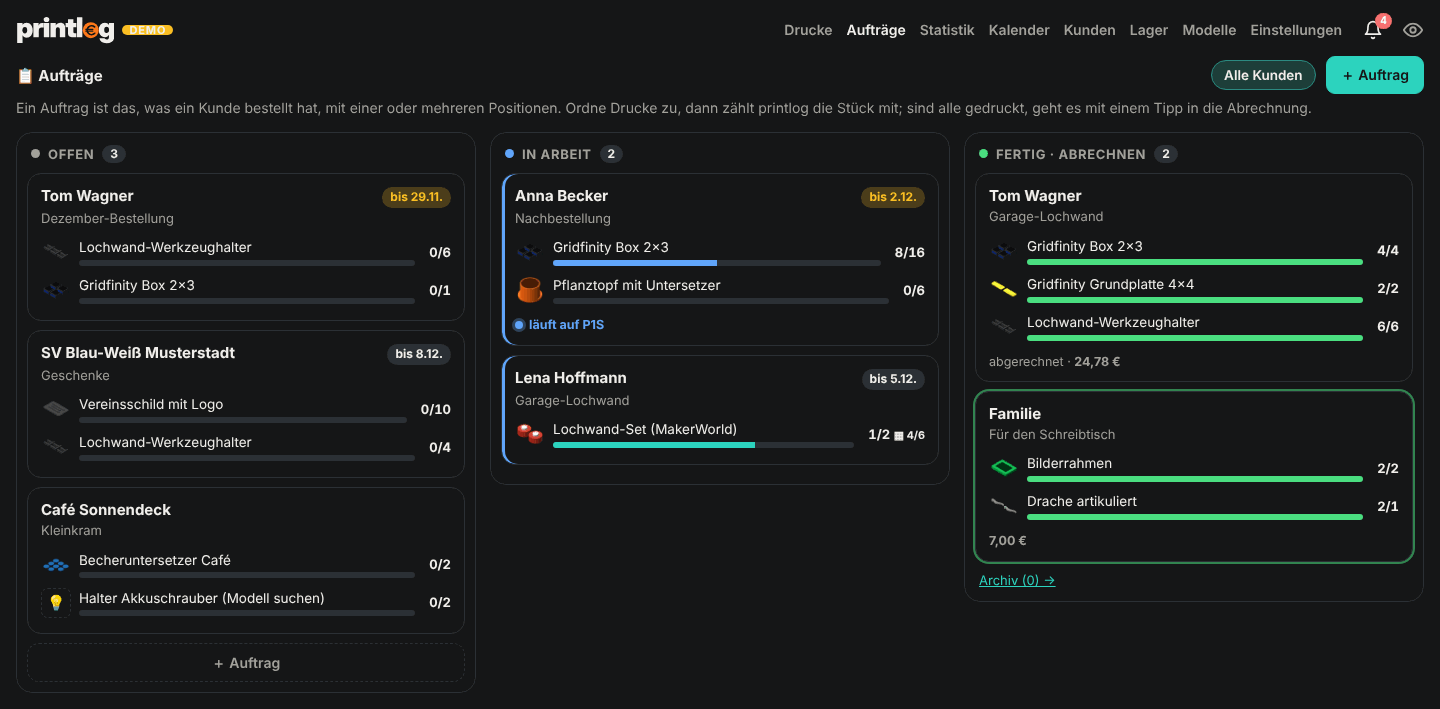
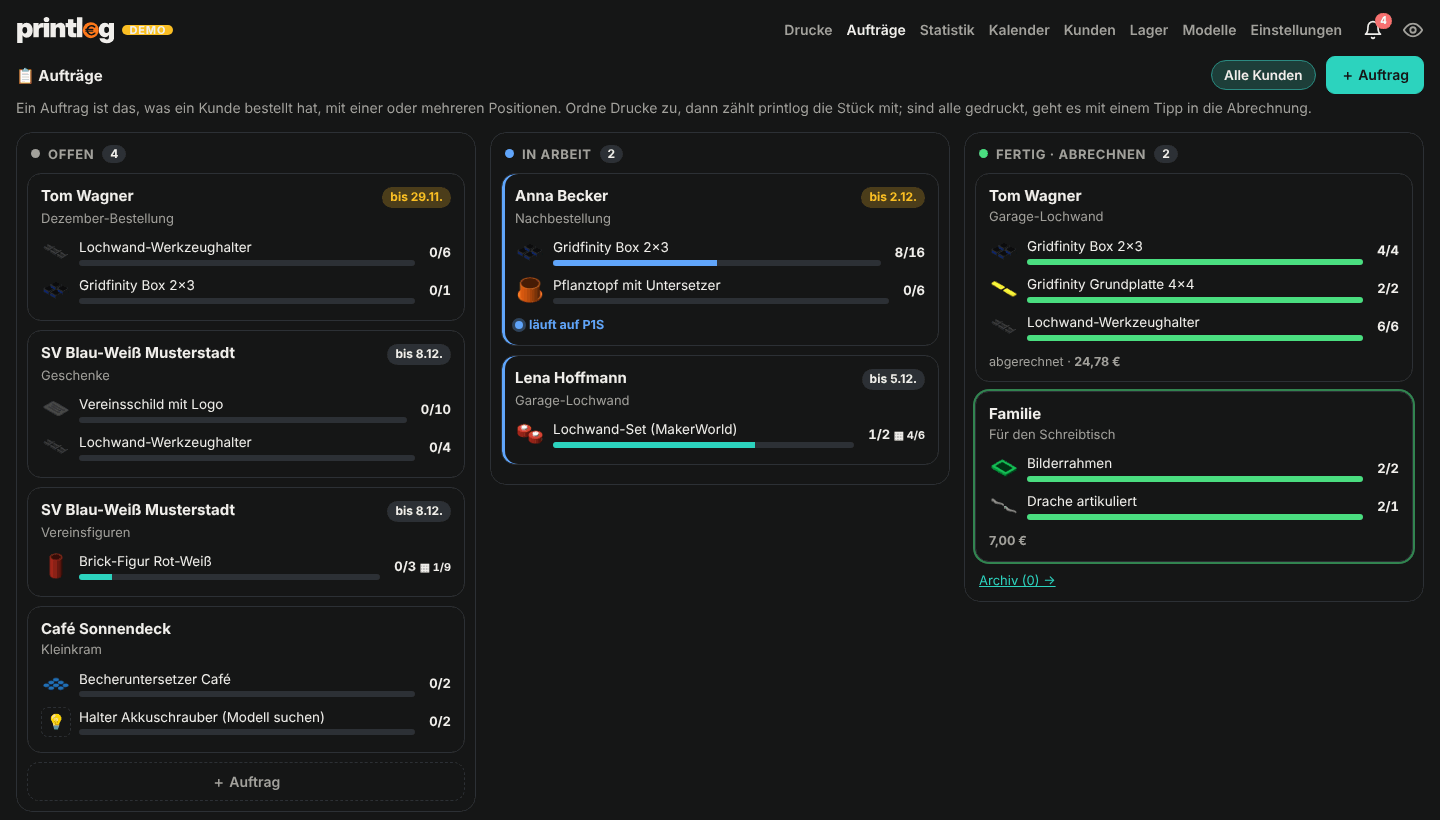
Aufträge: gemeinsame Teile mit Vorrat-Vorschlag und Farbabgleich
- Platte als gemeinsames Teil markieren (eigenes Modell, z. B. „Kopf + Hände“);
  der Vorrat des Teils wird über alle Modelle mit diesem Teil geteilt.
- Auftragsseite schlägt „aus Vorrat nehmen“ für offene Sätze vor, wenn Teile
  im Vorrat liegen; Farben werden mit den üblichen Farben verglichen, Vorrat in
  anderer Farbe steht extra und lässt sich trotzdem nehmen.
- Beim Ausbuchen werden passende Farben zuerst genommen.
- Demo „Vereinsfiguren“, EN, README (EN+DE) mit Bild, Tests.

Claude-Session: https://claude.ai/code/session_016QS8kGUCWRD3efxApCC5T8

Changed region(s): [[0.0, 0.0, 1.0, 0.8999], [0.5938, 0.5896, 0.6562, 0.6206], [0.1562, 0.9309, 0.2188, 0.9619]]

diff --git a/docs/screenshots/capture.js b/docs/screenshots/capture.js
@@ -112,7 +112,8 @@ const hdr = { 'Accept-Language': lang };
   await shot('orders', 'orders', { h: 820 });
   const ord = await p.evaluate(() => { const cs = [...document.querySelectorAll('.ocard')].filter(a => !a.querySelector('.opos small'));
     return (cs.find(a => a.classList.contains('running')) || cs[0]).getAttribute('href'); });
-  const pord = await p.evaluate(() => { const c = [...document.querySelectorAll('.ocard')].find(a => a.querySelector('.opos small')); return c && c.getAttribute('href'); });
+  const pord = await p.evaluate(() => { const c = [...document.querySelectorAll('.ocard')].find(a => a.querySelector('.opos small') && !/Brick/.test(a.textContent)); return c && c.getAttribute('href'); });
+  const sord = await p.evaluate(() => { const c = [...document.querySelectorAll('.ocard')].find(a => /Brick/.test(a.textContent)); return c && c.getAttribute('href'); });
   await shot('order-detail', ord, { h: 980 });
   if (pord) {
     // Platten pro Satz: Position mit Tabelle
@@ -121,6 +122,14 @@ const hdr = { 'Accept-Language': lang };
     const r = await p.evaluate(() => { const a = document.querySelector('.pbox').previousElementSibling.getBoundingClientRect(), b = document.querySelector('.pbox').getBoundingClientRect();
       return { y: a.top + scrollY - 12, h: b.bottom - a.top + 24 }; });
     await p.screenshot({ path: `${out}/order-plates.png`, fullPage: true, clip: { x: 0, y: r.y, width: 1440, height: r.h } });
+  }
+  if (sord) {
+    // Gemeinsames Teil: Vorschlag aus dem Vorrat, Platten bearbeiten offen
+    await p.goto(base + sord); await p.waitForLoadState('networkidle'); await p.waitForTimeout(600);
+    await p.click('[data-tgl^="pe"]'); await p.waitForTimeout(300);
+    const r = await p.evaluate(() => { const a = document.querySelector('.pbox').previousElementSibling.getBoundingClientRect(), b = document.querySelector('.pbox').getBoundingClientRect();
+      return { y: a.top + scrollY - 12, h: b.bottom - a.top + 24 }; });
+    await p.screenshot({ path: `${out}/order-shared.png`, fullPage: true, clip: { x: 0, y: r.y, width: 1440, height: r.h } });
   }
   // phone
   const ph = await b.newContext({ ...devices['iPhone 13'], locale: lang, colorScheme: scheme, extraHTTPHeaders: hdr });

diff --git a/app/demo.py b/app/demo.py
@@ -441,6 +441,7 @@ def _orders(store: Store, cust_ids: list[int], pid: int | None, now: float, L: A
     # 5) Pro Platte: ein MakerWorld-Set mit 5 Platten, zwei Designs zur Auswahl, Clips aus dem Vorrat
     if len(billing) > 5:
         _plate_order(store, billing[5], now, L)
+        _shared_parts(store, billing[2], billing[5], now, L)
     # 4) Archiv: das Beispielprojekt war ein Auftrag
     if pid:
         kids = [k for k in store.children([pid]).get(pid, []) if not k.get("kind")]
@@ -511,6 +512,53 @@ def _plate_order(store: Store, cid: int, now: float, L: Any) -> None:
         pl.set_cell(store, item, s, 5, "stock")  # Clips aus dem Vorrat
     for k, p in enumerate((plates[0], plates[0], plates[1], plates[2])):
         od.link(store, job(p, now - (3 - k * 0.5) * day), iid)
+
+
+def _shared_parts(store: Store, cid: int, other: int, now: float, L: Any) -> None:
+    """Demo für gemeinsame Teile: „Kopf + Hände“ liegt im Vorrat (auch in anderer Farbe), eine neue Figur nutzt es."""
+    from . import models as mdl
+    from . import orders as od
+    from . import plates as pl
+
+    conn = store._conn  # noqa: SLF001
+    base = conn.execute("SELECT * FROM jobs WHERE kind IS NULL AND state = 'done' AND cost_total IS NOT NULL "
+                        "ORDER BY start_ts DESC LIMIT 1").fetchone()
+    imgs = [r[0] for r in conn.execute("SELECT DISTINCT image FROM jobs WHERE kind IS NULL AND image IS NOT NULL LIMIT 8")]
+    if not base or not imgs:
+        return
+    fields = {k: base[k] for k in base.keys() if k not in ("id", "code", "order_item_id", "order_state", "order_cands",
+                                                          "project_id", "split", "customer_id", "model_hint", "model_cands")}
+    skin = '[{"slot":1,"name":"PLA Basic","type":"PLA","color":"#F1C27D","grams":14}]'
+    yellow = '[{"slot":1,"name":"PLA Basic","type":"PLA","color":"#FFD21F","grams":14}]'
+    red = '[{"slot":1,"name":"PLA Basic","type":"PLA","color":"#D7263D","grams":30},{"slot":2,"name":"PLA Basic","type":"PLA","color":"#FFFFFF","grams":6}]'
+
+    def job(name: str, mid: int, plate: int, qty: int, start: float, mats: str, cust: int | None = None, img: int = 0) -> int:
+        f = dict(fields)
+        f.update(task_name=name, model_id=mid, model_state="auto", gcode_plate=plate, quantity=qty, start_ts=start,
+                 end_ts=start + 50 * 60, filament_g=14.0 * qty, weight_g=14.0 * qty, cost_total=round(0.35 * qty + 0.1, 2),
+                 cost_work=0.0, materials=mats, image=imgs[img % len(imgs)], customer_id=cust, created_at=start)
+        return store.insert(**f)
+
+    day = 86400
+    head = L(("Kopf + Hände", "Head + hands"))
+    fig_a, fig_b = L(("Brick-Figur Blau-Gelb", "Brick figure blue-yellow")), L(("Brick-Figur Rot-Weiß", "Brick figure red-white"))
+    k = mdl.create_model(store, head)
+    a = mdl.create_model(store, fig_a)
+    b = mdl.create_model(store, fig_b)
+    p = job(head, k, 1, 6, now - 25 * day, skin, other, img=3)  # 6 Köpfe gedruckt, 1 abgegeben → 5 im Vorrat
+    store.set_split(p, [{"sid": None, "customer_id": other, "qty": 1}])
+    y = job(fig_a, a, 1, 3, now - 22 * day, yellow, other, img=3)  # gelbe Köpfe der Blau-Gelb-Figur, 2 übrig
+    store.set_split(y, [{"sid": None, "customer_id": other, "qty": 1}])
+    job(fig_a, a, 2, 1, now - 22 * day, red, img=4)
+    pl.save_plates(store, {"id": 0, "model_id": a}, [{"plate": 1, "name": head, "part_model_id": k},
+                                                     {"plate": 2, "name": L(("Körper + Trikot", "Body + jersey"))}])
+    pl.save_plates(store, {"id": 0, "model_id": b}, [{"plate": 1, "name": head, "part_model_id": k},
+                                                     {"plate": 2, "name": L(("Körper + Trikot Rot-Weiß", "Body + jersey red-white"))},
+                                                     {"plate": 3, "name": L(("Beine + Schuhe", "Legs + shoes"))}])
+    oid = od.create_order(store, cid, L(("Vereinsfiguren", "Club figures")), datetime.fromtimestamp(now + 12 * day).date().isoformat(),
+                          None, None)
+    iid = od.add_item(store, oid, b, None, 3)
+    od.link(store, job(fig_b, b, 2, 1, now - 1 * day, red, img=4), iid)
 
 def seed(store: Store, image_dir: Path, lang: str, now: float | None = None) -> int:
     """Löscht die Demo-Datenbank und legt neue Beispieldaten an. Gibt die Zahl der Drucke zurück."""

diff --git a/app/plates.py b/app/plates.py
@@ -101,8 +101,20 @@ def plates_of(store: Store, item: dict[str, Any]) -> list[dict[str, Any]]:
     if item.get("n_plates"):
         nums |= set(range(1, int(item["n_plates"]) + 1))
     out = []
+    part_stats: dict[int, dict[str, Any]] = {}
     for p in sorted(n for n in nums if 0 < n <= 999)[:MAX_PLATES]:
         i, s = info.get(p, {}), stats.get(p, {})
+        if not s and i.get("part_model_id"):  # gemeinsames Teil, an diesem Modell noch nie gedruckt: Werte vom Teil
+            pid = i["part_model_id"]
+            if pid not in part_stats:
+                ps = plate_stats(store, pid)
+                ps0 = ps[min(ps)] if ps else {}
+                n = ps0.get("pieces") or 1  # Werte pro Stück: ein Satz braucht ein Teil
+                part_stats[pid] = {**ps0, "pieces": 1, "min": ps0["min"] / n if ps0.get("min") else None,
+                                   "g": ps0["g"] / n if ps0.get("g") else None,
+                                   "cost": ps0["cost"] / n if ps0.get("cost") is not None else None,
+                                   "work": (ps0.get("work") or 0) / n} if ps0 else {}
+            s = {**part_stats[pid], "n": 0}
         out.append({"plate": p, "name": i.get("name") or t("Platte {n}", n=p), "named": bool(i.get("name")),
                     "grp": (i.get("grp") or "").strip() or None, "part_model_id": i.get("part_model_id"),
                     "min": s.get("min"), "g": s.get("g"), "pieces": s.get("pieces") or 1, "cost": s.get("cost"),
@@ -292,6 +304,15 @@ def _sources(store: Store, model_id: int | None, plate: dict[str, Any]) -> list[
     return src
 
 
+def part_colors(store: Store, part_model_id: int | None) -> list[str]:
+    """Farben des letzten guten Drucks eines gemeinsamen Teils (für den Farbabgleich im Vorrat)."""
+    if not part_model_id:
+        return []
+    r = store._conn.execute(f"SELECT materials FROM jobs WHERE model_id = ? AND kind IS NULL AND state = 'done' AND NOT {Store.SCRAP_SQL} "
+                            "ORDER BY start_ts DESC LIMIT 1", (part_model_id,)).fetchone()
+    return _colors(r["materials"]) if r else []
+
+
 def stock_for(store: Store, model_id: int | None, plate: dict[str, Any], want_colors: list[str] | None = None) -> dict[str, Any]:
     """Vorrat für eine Platte: Stück gesamt, davon in passender Farbe, und die Quellen (aufgeteilte Drucke)."""
     src = _sources(store, model_id, plate)
@@ -308,7 +329,7 @@ def stock_for(store: Store, model_id: int | None, plate: dict[str, Any], want_co
     rows = [dict(r) for r in store._conn.execute(
         f"SELECT jobs.*, {Store.SCRAP_SQL} AS is_scrap FROM jobs WHERE split = 1 AND kind IS NULL AND ({' OR '.join(conds)}) "
         "ORDER BY start_ts", args)]
-    want = set(want_colors or plate.get("colors") or [])
+    want = set(want_colors or plate.get("colors") or part_colors(store, plate.get("part_model_id")))
     out, pieces, match = [], 0, 0
     for r in rows:
         units = store.stock(r)["units"]
@@ -368,8 +389,9 @@ def suggestions(store: Store, item: dict[str, Any], sm: dict[str, Any] | None = 
         if k <= 0 and free_all // per <= 0:
             continue
         other = sorted({c for par in st["parents"] if not par["same"] for c in par["colors"]})
+        same_cols = sorted({c for par in st["parents"] if par["same"] for c in par["colors"]})
         out.append({"plate": p["plate"], "name": p["name"], "sets": sorted(open_sets)[:max(k, 0)], "n_sets": k,
-                    "n_open": len(open_sets), "pieces": free_all, "match": free_same, "other_colors": other, "per": per,
+                    "n_open": len(open_sets), "pieces": free_all, "match": free_same, "other_colors": other, "colors": same_cols, "per": per,
                     "shared": bool(p.get("part_model_id"))})
     return out
 
@@ -382,7 +404,7 @@ def use_stock(store: Store, item: dict[str, Any], plate: int, n: int | None = No
     sug = next((x for x in suggestions(store, item, sm) if x["plate"] == plate), None)
     if not sug:
         return 0
-    k = sug["n_sets"] if n is None else min(n, sug["n_open"], sug["pieces"] // sug["per"])
+    k = sug["n_sets"] if n is None else max(0, min(n, sug["n_open"], sug["pieces"] // sug["per"]))
     sets = sorted(s for (s, pl) in sm["grid"]["open"] if pl == plate)[:k]
     with store._lock, store._conn:
         for s in sets:

diff --git a/tests/test_platten.py b/tests/test_platten.py
@@ -129,3 +129,59 @@ def test_vorrat_ausbuchen_und_freitext() -> None:
     assert it["model_id"] == m2 and it["pl"]["plates"][1]["name"] == "Flügel"
     od.delete_order(store, oid2)
     assert not store._conn.execute("SELECT 1 FROM plate_cells WHERE item_id = ?", (iid,)).fetchone()
+
+
+def test_gemeinsame_teile_und_farbe() -> None:
+    store = _store()
+    cid = store.save_customer(None, "Verein", None, None, 0)
+    other = store.save_customer(None, "Andere", None, None, 0)
+    kopf = mdl.create_model(store, "Kopf + Hände")
+    blau = mdl.create_model(store, "Figur Blau")
+    rot = mdl.create_model(store, "Figur Rot")
+    haut = '[{"slot":1,"type":"PLA","color":"#F1C27D","grams":10}]'
+    gelb = '[{"slot":1,"type":"PLA","color":"#FFE000","grams":10}]'
+    # 6 Köpfe als eigenes Modell gedruckt, einer verkauft → 5 im Vorrat (hautfarben)
+    k = _job(store, "Kopf + Hände", 1, kopf, qty=6, ago=20 * 86400, customer_id=other, materials=haut)
+    store.set_split(k, [{"sid": None, "customer_id": other, "qty": 1}])
+    # Figur Blau, Platte 1 = gemeinsames Teil; 3 Köpfe in Gelb übrig
+    b1 = _job(store, "Figur Blau", 1, blau, qty=4, ago=15 * 86400, customer_id=other, materials=gelb)
+    store.set_split(b1, [{"sid": None, "customer_id": other, "qty": 1}])
+    _job(store, "Figur Blau", 1, blau, qty=1, ago=14 * 86400, materials=gelb)
+    _job(store, "Figur Blau", 2, blau, ago=14 * 86400)
+    pl.save_plates(store, {"id": 0, "model_id": blau}, [{"plate": 1, "name": "Kopf + Hände", "part_model_id": kopf}])
+    # Figur Rot: noch nie gedruckt, Platten von Hand angelegt
+    pl.save_plates(store, {"id": 0, "model_id": rot}, [{"plate": 1, "name": "Kopf + Hände", "part_model_id": kopf},
+                                                       {"plate": 2, "name": "Trikot Rot"}])
+    assert pl.has_plates(store, rot)
+    oid = od.create_order(store, cid, "Vereinsfiguren", None, None, None)
+    iid = od.add_item(store, oid, rot, None, 3)
+    i = od.order(store, oid)["items"][0]
+    assert i["by_plate"] == 1 and i["pl"]["n_print"] == 6
+    sug = pl.suggestions(store, i)
+    assert len(sug) == 1 and sug[0]["plate"] == 1 and sug[0]["shared"]
+    assert sug[0]["match"] == 5 and sug[0]["pieces"] == 8 and sug[0]["n_sets"] == 3  # Gelb zählt nicht als passend
+    assert sug[0]["other_colors"] == ["#FFE000"]
+    html = od.page_order(store, od.order(store, oid))
+    assert "Kopf + Hände" in html and "anderer Farbe" in html
+    assert pl.use_stock(store, i, 1) == 3
+    i = od.order(store, oid)["items"][0]
+    assert i["pl"]["n_stock"] == 3 and i["pl"]["n_open"] == 3 and not pl.suggestions(store, i)
+    for s in range(3):
+        od.link(store, _job(store, "Figur Rot", 2, rot, ago=100 + s), iid)
+    o = od.order(store, oid)
+    assert o["state"] == "done"
+    target, note = od.bill(store, oid)
+    assert target and note is None
+    left = pl.stock_for(store, rot, od.order(store, oid)["items"][0]["pl"]["plates"][0])
+    assert left["match"] == 2 and left["pieces"] == 5  # hautfarbene zuerst genommen, die gelben bleiben
+
+    # Nur andere Farbe im Vorrat: Vorschlag „trotzdem“
+    oid2 = od.create_order(store, cid, "Noch mehr", None, None, None)
+    od.add_item(store, oid2, rot, None, 4)
+    i2 = od.order(store, oid2)["items"][0]
+    sg = pl.suggestions(store, i2)[0]
+    assert sg["match"] == 2 and sg["n_sets"] == 2
+    assert pl.use_stock(store, i2, 1, 4) == 4  # 2 passende + 2 gelbe
+    # Löschen des gemeinsamen Modells: Verweise werden gelöst
+    mdl.delete_model(store, kopf)
+    assert not store._conn.execute("SELECT 1 FROM plate_info WHERE part_model_id = ?", (kopf,)).fetchone()

diff --git a/app/orders.py b/app/orders.py
@@ -1069,11 +1069,39 @@ def _plate_box(store: Store, o: dict[str, Any], i: dict[str, Any], act: str) -> 
 
 
 def _part_input(store: Store, item: dict[str, Any], p: dict[str, Any]) -> str:
-    return ""
+    """Gemeinsames Teil: Die Platte entspricht einem eigenen Modell (z. B. „Kopf + Hände“), dessen Vorrat alle nutzen."""
+    name = ""
+    if p.get("part_model_id"):
+        r = store._conn.execute("SELECT name FROM models WHERE id = ?", (p["part_model_id"],)).fetchone()
+        name = r["name"] if r else ""
+    return (f'<input name="ppart_{p["plate"]}" maxlength="120" value="{e(name)}" list="modellist" '
+            f'placeholder="🔗 {e(t("Gemeinsames Teil (optional)"))}" aria-label="{e(t("Gemeinsames Teil"))}">')
 
 
 def _stock_hint(store: Store, item: dict[str, Any]) -> str:
-    return ""
+    """Vorschlag „aus Vorrat“ für Platten mit offenen Feldern, deren Teile schon im Vorrat liegen."""
+    out = ""
+    act = f"orders/{item['order_id']}"
+    for sg in _plates.suggestions(store, item, item.get("pl")):
+        hid = (f'<input type="hidden" name="do" value="use_stock"><input type="hidden" name="item" value="{item["id"]}">'
+               f'<input type="hidden" name="plate" value="{sg["plate"]}">')
+        per = sg["per"]
+        good, all_ = sg["match"] // per, sg["pieces"] // per
+        what = f'<b>{e(sg["name"])}</b>' + (f' <span class="ptag">🔗 {e(t("gemeinsam"))}</span>' if sg["shared"] else "")
+        if sg["n_sets"]:
+            txt = t("liegt {n}× im Vorrat.", n=good) + " " + tn(sg["n_sets"], "Für {n} Satz aus dem Vorrat nehmen?",
+                                                                  "Für {n} Sätze aus dem Vorrat nehmen?")
+            btn = f'<button class="btn sm">📦 {e(t("Ja, {n} nehmen", n=sg["n_sets"]))}</button>'
+            other = (f' <span class="muted">{e(t("Dazu {n}× in anderer Farbe", n=all_ - good))} {_swatches(sg["other_colors"])}</span>'
+                     if all_ > good else "")
+            out += f'<form method="post" action="{act}" class="psug">{hid}💡 {what} {_swatches(sg["colors"])} {e(txt)}{other}{btn}</form>'
+        elif all_:
+            k = min(all_, sg["n_open"])
+            txt = t("liegt nur in anderer Farbe im Vorrat ({n}×).", n=all_)
+            btn = (f'<input type="hidden" name="n" value="{k}"><button class="btn sm">📦 '
+                   f'{e(t("Trotzdem {n} nehmen", n=k))}</button>')
+            out += f'<form method="post" action="{act}" class="psug">{hid}🎨 {what} {e(txt)} {_swatches(sg["other_colors"])}{btn}</form>'
+    return out
 
 ORDER_JS = r"""
 document.querySelectorAll('[data-tgl]').forEach(b=>b.onclick=()=>{const el=document.getElementById(b.dataset.tgl);el.hidden=!el.hidden;

diff --git a/app/i18n_en.py b/app/i18n_en.py
@@ -1350,4 +1350,15 @@ EN: dict[str, str] = {
     'nicht nötig': 'not needed',
     '{p}: {n} Stk. nicht im Vorrat': '{p}: {n} pcs not in stock',
     'Auftrag: {p}': 'Order: {p}',
+    # Gemeinsame Teile
+    'Gemeinsames Teil (optional)': 'Shared part (optional)',
+    'Gemeinsames Teil': 'Shared part',
+    'Für {n} Satz aus dem Vorrat nehmen?': 'Take it from stock for {n} set?',
+    'Für {n} Sätze aus dem Vorrat nehmen?': 'Take it from stock for {n} sets?',
+    'liegt nur in anderer Farbe im Vorrat ({n}×).': 'is in stock only in another colour ({n}×).',
+    'liegt {n}× im Vorrat.': 'is in stock {n}×.',
+    'Ja, {n} nehmen': 'Yes, take {n}',
+    'gemeinsam': 'shared',
+    'Dazu {n}× in anderer Farbe': 'Plus {n}× in another colour',
+    'Trotzdem {n} nehmen': 'Take {n} anyway',
 }

diff --git a/docs/screenshots/shrink.py b/docs/screenshots/shrink.py
@@ -18,7 +18,7 @@ for n in desk:
     save(im, n)
 for n in ['failed-print', 'failed-print-stats', 'project-list', 'project-detail', 'assign-customer', 'split-list', 'split-detail', 'split-dialog', 'stock',
           'work-accessories', 'accessory-picker', 'accessory-inventory', 'hints', 'models', 'locations', 'location',
-          'orders', 'order-detail', 'order-plates']:
+          'orders', 'order-detail', 'order-plates', 'order-shared']:
     if os.path.exists(f'{src}/{n}.png'):
         im = Image.open(f'{src}/{n}.png').convert('RGB')
         save(trim_bottom(im) if n in ('project-detail', 'stock', 'hints', 'locations', 'location', 'orders', 'order-detail') else im, n)

diff --git a/app/web.py b/app/web.py
@@ -925,7 +925,8 @@ def setup_routes(app: web.Application, store: Store, image_dir: Path, ha_state: 
         elif do == "use_stock" and item:
             it = next(i for i in o["items"] if i["id"] == item)
             if str(form.get("plate") or "").isdigit():
-                pl.use_stock(store, it, int(str(form["plate"])))
+                n = parse_num(form.get("n"))
+                pl.use_stock(store, it, int(str(form["plate"])), int(n) if n else None)
             extra = f"#pb{item}"
         elif do == "bill":
             target, err = od.bill(store, oid, stock=str(form.get("stock") or "") == "1")

diff --git a/README.md b/README.md
@@ -107,6 +107,12 @@ in a **light and a dark** colour scheme (Settings → View → Colour scheme, or
   while that plate is still needed. *From stock* fields are booked out of stock for the customer at **To billing**
   (at 0 € when an agreed price is set). Plate names and groups are set under *Edit plates* and apply to every order
   with that model.
+  **Shared parts:** a plate can be marked as a *shared part* – its own model such as “Head + hands” that several
+  figures use. Stock of that part is then shared: when an order needs it and pieces are in stock (split prints of the part
+  or of any plate marked as the same part), the order page suggests *take from stock* for the open sets. Colours are
+  compared with the part’s usual colours; stock in another colour is listed separately and can be taken anyway. printlog
+  cannot tell on its own which parts sit on a plate (Bambu only reports project name and plate number), so you mark the
+  shared part once under *Edit plates*; the part needs its own plate.
 - **Notices** – a 🔔 bell at the top counts open questions (prints to check, accessories to restock). The **Notices** page
   answers them in one tap (*Yes, model X* / *Other model …* / *New model*); the list shows a coloured dot on such prints
   and the print page a banner. Optionally printlog also sends a Home Assistant notification (*Settings → View*).
@@ -188,7 +194,7 @@ in a **light and a dark** colour scheme (Settings → View → Colour scheme, or
 | <a href="docs/screenshots/en/stock.png"><picture><source media="(prefers-color-scheme: dark)" srcset="docs/screenshots/en-dark/stock.png"><img src="docs/screenshots/en/stock.png" alt="Stock: what is left on the shelf and its value"></picture></a><br>**Stock: what is left on the shelf and its value** | <a href="docs/screenshots/en/work-accessories.png"><picture><source media="(prefers-color-scheme: dark)" srcset="docs/screenshots/en-dark/work-accessories.png"><img src="docs/screenshots/en/work-accessories.png" alt="Labour & accessories on the print page"></picture></a><br>**Labour & accessories on the print page** |
 | <a href="docs/screenshots/en/accessory-picker.png"><picture><source media="(prefers-color-scheme: dark)" srcset="docs/screenshots/en-dark/accessory-picker.png"><img src="docs/screenshots/en/accessory-picker.png" alt="Pick accessories from the inventory"></picture></a><br>**Pick accessories from the inventory** | <a href="docs/screenshots/en/accessory-inventory.png"><picture><source media="(prefers-color-scheme: dark)" srcset="docs/screenshots/en-dark/accessory-inventory.png"><img src="docs/screenshots/en/accessory-inventory.png" alt="Storage: accessory inventory with location and buy link"></picture></a><br>**Storage: accessory inventory with location and buy link** |
 | <a href="docs/screenshots/en/orders.png"><picture><source media="(prefers-color-scheme: dark)" srcset="docs/screenshots/en-dark/orders.png"><img src="docs/screenshots/en/orders.png" alt="Orders: open, in progress, done"></picture></a><br>**Orders: open, in progress, done** | <a href="docs/screenshots/en/order-detail.png"><picture><source media="(prefers-color-scheme: dark)" srcset="docs/screenshots/en-dark/order-detail.png"><img src="docs/screenshots/en/order-detail.png" alt="An order: items, assigned prints, billing"></picture></a><br>**An order: items, assigned prints, billing** |
-| <a href="docs/screenshots/en/order-plates.png"><picture><source media="(prefers-color-scheme: dark)" srcset="docs/screenshots/en-dark/order-plates.png"><img src="docs/screenshots/en/order-plates.png" alt="Plates per set: choice group, from stock"></picture></a><br>**Plates per set: choice group, from stock** | |
+| <a href="docs/screenshots/en/order-plates.png"><picture><source media="(prefers-color-scheme: dark)" srcset="docs/screenshots/en-dark/order-plates.png"><img src="docs/screenshots/en/order-plates.png" alt="Plates per set: choice group, from stock"></picture></a><br>**Plates per set: choice group, from stock** | <a href="docs/screenshots/en/order-shared.png"><picture><source media="(prefers-color-scheme: dark)" srcset="docs/screenshots/en-dark/order-shared.png"><img src="docs/screenshots/en/order-shared.png" alt="Shared part: suggestion from stock with colour check"></picture></a><br>**Shared part: suggestion from stock with colour check** |
 | <a href="docs/screenshots/en/hints.png"><picture><source media="(prefers-color-scheme: dark)" srcset="docs/screenshots/en-dark/hints.png"><img src="docs/screenshots/en/hints.png" alt="Notices: orders and models with one tap"></picture></a><br>**Notices: orders and models with one tap** | <a href="docs/screenshots/en/models.png"><picture><source media="(prefers-color-scheme: dark)" srcset="docs/screenshots/en-dark/models.png"><img src="docs/screenshots/en/models.png" alt="Models: favourites, design time, print again"></picture></a><br>**Models: favourites, design time, print again** |
 | <a href="docs/screenshots/en/locations.png"><picture><source media="(prefers-color-scheme: dark)" srcset="docs/screenshots/en-dark/locations.png"><img src="docs/screenshots/en/locations.png" alt="Storage: locations for accessories and prints"></picture></a><br>**Storage: locations for accessories and prints** | <a href="docs/screenshots/en/location.png"><picture><source media="(prefers-color-scheme: dark)" srcset="docs/screenshots/en-dark/location.png"><img src="docs/screenshots/en/location.png" alt="A location with its fixed ID and contents"></picture></a><br>**A location with its fixed ID and contents** |
 
@@ -538,6 +544,13 @@ in **hell und dunkel** (Einstellungen → Ansicht → Farbschema, oder automatis
   zugeordnet, zu der sie gehören, und nur solange diese Platte noch gebraucht wird. Felder *aus Vorrat* bucht **Zur
   Abrechnung** für den Kunden aus dem Vorrat aus (zu 0 €, wenn ein Preis vereinbart ist). Plattennamen und Gruppen stellst
   du unter *Platten bearbeiten* ein, sie gelten für alle Aufträge mit diesem Modell.
+  **Gemeinsame Teile:** Eine Platte lässt sich als *gemeinsames Teil* markieren – ein eigenes Modell wie „Kopf + Hände“, das
+  mehrere Figuren nutzen. Der Vorrat dieses Teils ist dann gemeinsam: Braucht ein Auftrag es und liegen Teile im Vorrat
+  (aufgeteilte Drucke des Teils oder einer Platte, die als dasselbe Teil markiert ist), schlägt die Auftragsseite *aus Vorrat
+  nehmen* für die offenen Sätze vor. Die Farben werden mit den üblichen Farben des Teils verglichen; Vorrat in anderer Farbe
+  steht extra da und lässt sich trotzdem nehmen. Welche Teile auf einer Platte liegen, kann printlog nicht selbst erkennen
+  (Bambu meldet nur Projektname und Plattennummer), deshalb markierst du das gemeinsame Teil einmal unter *Platten
+  bearbeiten*; das Teil braucht eine eigene Platte.
 - **Hinweise** – eine 🔔 Glocke oben zählt offene Fragen (Drucke prüfen, Zubehör nachkaufen). Auf der Seite **Hinweise**
   beantwortest du sie mit einem Tipp (*Ja, Modell X* / *Anderes Modell …* / *Neues Modell*); die Liste zeigt bei solchen
   Drucken einen farbigen Punkt, die Druckseite ein Banner. Optional schickt printlog zusätzlich eine Home-Assistant-Nachricht
@@ -623,7 +636,7 @@ in **hell und dunkel** (Einstellungen → Ansicht → Farbschema, oder automatis
 | <a href="docs/screenshots/de/stock.png"><picture><source media="(prefers-color-scheme: dark)" srcset="docs/screenshots/de-dark/stock.png"><img src="docs/screenshots/de/stock.png" alt="Vorrat: was im Regal liegt und was es wert ist"></picture></a><br>**Vorrat: was im Regal liegt und was es wert ist** | <a href="docs/screenshots/de/work-accessories.png"><picture><source media="(prefers-color-scheme: dark)" srcset="docs/screenshots/de-dark/work-accessories.png"><img src="docs/screenshots/de/work-accessories.png" alt="Arbeit &amp; Zubehör in der Übersicht"></picture></a><br>**Arbeit & Zubehör in der Übersicht** |
 | <a href="docs/screenshots/de/accessory-picker.png"><picture><source media="(prefers-color-scheme: dark)" srcset="docs/screenshots/de-dark/accessory-picker.png"><img src="docs/screenshots/de/accessory-picker.png" alt="Zubehör aus dem Inventar wählen"></picture></a><br>**Zubehör aus dem Inventar wählen** | <a href="docs/screenshots/de/accessory-inventory.png"><picture><source media="(prefers-color-scheme: dark)" srcset="docs/screenshots/de-dark/accessory-inventory.png"><img src="docs/screenshots/de/accessory-inventory.png" alt="Lager: Zubehör-Inventar mit Lagerort und Kauflink"></picture></a><br>**Lager: Zubehör-Inventar mit Lagerort und Kauflink** |
 | <a href="docs/screenshots/de/orders.png"><picture><source media="(prefers-color-scheme: dark)" srcset="docs/screenshots/de-dark/orders.png"><img src="docs/screenshots/de/orders.png" alt="Aufträge: offen, in Arbeit, fertig"></picture></a><br>**Aufträge: offen, in Arbeit, fertig** | <a href="docs/screenshots/de/order-detail.png"><picture><source media="(prefers-color-scheme: dark)" srcset="docs/screenshots/de-dark/order-detail.png"><img src="docs/screenshots/de/order-detail.png" alt="Ein Auftrag: Positionen, Drucke, Abrechnung"></picture></a><br>**Ein Auftrag: Positionen, Drucke, Abrechnung** |
-| <a href="docs/screenshots/de/order-plates.png"><picture><source media="(prefers-color-scheme: dark)" srcset="docs/screenshots/de-dark/order-plates.png"><img src="docs/screenshots/de/order-plates.png" alt="Platten pro Satz: Auswahl, aus Vorrat"></picture></a><br>**Platten pro Satz: Auswahl, aus Vorrat** | |
+| <a href="docs/screenshots/de/order-plates.png"><picture><source media="(prefers-color-scheme: dark)" srcset="docs/screenshots/de-dark/order-plates.png"><img src="docs/screenshots/de/order-plates.png" alt="Platten pro Satz: Auswahl, aus Vorrat"></picture></a><br>**Platten pro Satz: Auswahl, aus Vorrat** | <a href="docs/screenshots/de/order-shared.png"><picture><source media="(prefers-color-scheme: dark)" srcset="docs/screenshots/de-dark/order-shared.png"><img src="docs/screenshots/de/order-shared.png" alt="Gemeinsames Teil: Vorschlag aus Vorrat mit Farbabgleich"></picture></a><br>**Gemeinsames Teil: Vorschlag aus Vorrat mit Farbabgleich** |
 | <a href="docs/screenshots/de/hints.png"><picture><source media="(prefers-color-scheme: dark)" srcset="docs/screenshots/de-dark/hints.png"><img src="docs/screenshots/de/hints.png" alt="Hinweise: Aufträge und Modelle mit einem Tipp"></picture></a><br>**Hinweise: Aufträge und Modelle mit einem Tipp** | <a href="docs/screenshots/de/models.png"><picture><source media="(prefers-color-scheme: dark)" srcset="docs/screenshots/de-dark/models.png"><img src="docs/screenshots/de/models.png" alt="Modelle: Favoriten, Designzeit, wieder drucken"></picture></a><br>**Modelle: Favoriten, Designzeit, wieder drucken** |
 | <a href="docs/screenshots/de/locations.png"><picture><source media="(prefers-color-scheme: dark)" srcset="docs/screenshots/de-dark/locations.png"><img src="docs/screenshots/de/locations.png" alt="Lager: Lagerorte für Zubehör und Drucke"></picture></a><br>**Lager: Lagerorte für Zubehör und Drucke** | <a href="docs/screenshots/de/location.png"><picture><source media="(prefers-color-scheme: dark)" srcset="docs/screenshots/de-dark/location.png"><img src="docs/screenshots/de/location.png" alt="Ein Lagerort mit fester Kennung und Inhalt"></picture></a><br>**Ein Lagerort mit fester Kennung und Inhalt** |
 
